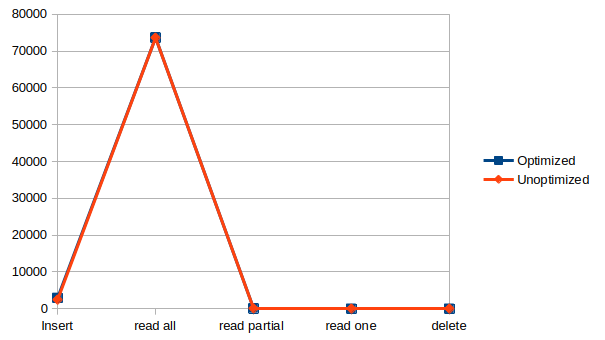
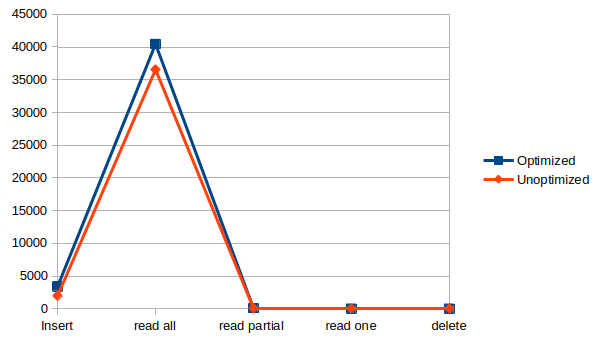
changed workloadSetup

diff --git a/routes/routes.js b/routes/routes.js
@@ -2,23 +2,26 @@ import express from 'express';
 //import getCouchbase from '../src/coachbase/model.js';
 //import cassandraModel from '../src/cassandra/model.js';
 //import mongodbModel from '../src/mongoDB/model.js';
-import oracleModel from '../src/oracle/model.js';
-//import postgisModel from '../src/postgis/model.js';
+//import oracleModel from '../src/oracle/model.js';
+import postgisModel from '../src/postgis/model.js';
 //import postgreModel from '../src/postgreSQL/model.js';
 
 
 const routes = express.Router();
 
 //const pg = new postgreModel();
-//const postgis = new postgisModel();
-const oracle = new oracleModel();
+const postgis = new postgisModel();
+//const oracle = new oracleModel();
 //const mongoDB = new mongodbModel();
 //const cassandra = new cassandraModel();
 //const couchDB = new getCouchbase();
 
 routes.post("/insert", async (req, res)=>{
     try {
-        const result = await oracle.insert(req.body.collection, req.body.path);
+
+        const result = await postgis.insertOptimised(req.body.collection, req.body.path);
+        //const result = await postgis.insert(req.body.collection, req.body.path);
+        console.log("insert route", result)
         //const result = await cassandra.insertOptimized(req.body.collectionTime, req.body.collectionId, req.body.path);
         res.status(200).json({ success: true, result });
     } catch (err) {
@@ -28,27 +31,29 @@ routes.post("/insert", async (req, res)=>{
 })
 
 routes.post("/read_all", async (req, res) => {
-    const result = await oracle.readAll(req.body.collection);
+    console.log("read_all route", req.body.collection)
+    const result = await postgis.readAll(req.body.collection);
+    console.log("read_all route", result)
     res.status(200).json(result);
 })
 
 routes.post("/read_partial", async (req, res) => {
     console.log("ROUTES REQ'S",req.body.collection, req.body.columnOne, req.body.columnTwo, req.body.valueOne, req.body.valueTwo)
-    const result = await oracle.readPartial(req.body.collection, req.body.columnOne, req.body.columnTwo, req.body.valueOne, req.body.valueTwo);
-    //const result = await postgis.readPartialOP(req.body.collection, req.body.valueOne, req.body.valueTwo, req.body.valueThree, req.body.valueFour)
+    //const result = await oracle.readPartial(req.body.collection, req.body.columnOne, req.body.columnTwo, req.body.valueOne, req.body.valueTwo);
+    const result = await postgis.readPartialOP(req.body.collection, req.body.valueOne, req.body.valueTwo, req.body.valueThree, req.body.valueFour)
     //const result = await cassandra.readPartialOptimized(req.body.collection, req.body.valueOne, req.body.valueTwo)
     res.status(200).json(result);
 })
 
 routes.post("/read_one", async (req, res) => {
-    const result = await oracle.readOne(req.body.collection);
+    const result = await postgis.readOne(req.body.collection);
     
     res.status(200).json(result);
 })
 
 routes.post("/delete", async (req, res) => {
     //const result = await cassandra.delete(req.body.collectionTime, req.body.collectionId);
-    const result = await oracle.delete(req.body.collection);
+    const result = await postgis.delete(req.body.collection);
     res.status(200).json(result);
 })
 routes.post("/postgisdrop", async (req, res) => {

diff --git a/src/postgis/model.js b/src/postgis/model.js
@@ -8,7 +8,7 @@ class postgisModel{
     * @param {table} table 
     */
     async readAll(table) {
-    const client = await connectPostgre();
+    const { client, postgis } = await postgisconnect();
     const sql = `SELECT * FROM ${table}`
     await client.query(sql);
     console.log("READ ALL")
@@ -67,7 +67,7 @@ class postgisModel{
     * @param {table} table 
     */
     async insert(table, path) {
-        const client = await connectPostgre();
+        const { client, postgis } = await postgisconnect();
         const copySQl = `COPY ${table} (Severity,State,Precipitation,Windy,Start_Lat,Start_Lng,Date,Time) 
         FROM '/data/${path}.csv'
         WITH (FORMAT csv, HEADER true, DELIMITER ',' )`;
@@ -89,9 +89,9 @@ class postgisModel{
         CSV HEADER`;
         const res = await client.query(copySQl)
 
-        const copyScrap = `INSERT INTO optimized (Severity, State, Precipitation, Windy, Geo, Start_time, End_time)
-        SELECT Severity::integer, State, Precipitation::float, Windy::boolean, ST_GeomFromText(Geo_text, 4326), Start_time::timestamp, End_time::timestamp
-        FROM optimized_scarp;`
+    const copyScrap = `INSERT INTO optimized (Severity, State, Precipitation, Windy, Geo, Start_time, End_time)
+        SELECT Severity::integer, State, Precipitation::float, Windy::integer, ST_GeomFromText(Geo_text, 4326), Start_time::timestamp, End_time::timestamp
+        FROM optimized_scarp`;
 
         const result = await client.query(copyScrap)
         console.log("insert", result.rowCount)

diff --git a/src/oracle/model.js b/src/oracle/model.js
@@ -8,6 +8,7 @@ class oracleModel{
     * @param {table} table 
     */
     async readAll(table) {
+        console.log("Model read_all");
         const dbconn = await dbConnectionOracle();
         const sql = `SELECT * FROM ${table}`;
         const result = await dbconn.execute(sql);
@@ -37,7 +38,7 @@ class oracleModel{
     */
     async readOne(table) {
         const dbconn = await dbConnectionOracle();
-        const sql = `SELECT * FROM ${table} WHERE id = 1`
+        const sql = `SELECT * FROM ${table} WHERE id = 5000`
         const result = await dbconn.execute(sql)
         console.log("ONE", result.rows.length)
         return true;
@@ -99,6 +100,7 @@ class oracleModel{
             })
             .on("error", reject);
         });
+
     }
 
 }

diff --git a/src/app.js b/src/app.js
@@ -1,5 +1,5 @@
 import express from 'express';
-//import { preprocessing } from './postgis/preprocess.js';
+import { preprocessing } from './postgis/preprocess.js';
 
 import routes from '../routes/routes.js';
 
@@ -11,4 +11,4 @@ app.use('/', routes);
 
 app.listen(3000, () => console.log(`Server running on 3000`));
 
-//preprocessing("dataC.csv")
+preprocessing("dataB.csv")

diff --git a/scripts/main.py b/scripts/main.py
@@ -30,6 +30,8 @@ FOR OPTIMIZED MONGODB & POSTGREE:
 Workload A, B, C:
 "-d", '{"collection":"optimized", "columnOne": "Windy", "columnTwo": "Severity", "valueOne":0, "valueTwo":4}',
 
+        
+
 """
 
 def main():
@@ -50,12 +52,18 @@ def main():
                                 "-X", 
                                 "POST",
                                 "-H", "Content-Type: application/json",
-                                "-d", '{"collection":"unoptimized", "path": "dataC"}',
+                                "-d", '{"collection":"optimized", "path": "dataB"}',
                                 "http://localhost:3000/insert"],
                                 capture_output=True,
                                 text=True)
         print("Insert done")
         print(insert.stderr)
+
+        energy, times = retreive_values(insert.stderr)
+        results.append({"Run": count,
+                        "Operation": "insert",
+                        "Energy": energy,
+                        "Time": times})
         subprocess.run([   "curl",
                                 "-s",
                                 "-o",
@@ -63,16 +71,10 @@ def main():
                                 "-X", 
                                 "POST",
                                 "-H", "Content-Type: application/json",
-                                "-d", '{"collection":"unoptimize"}',
+                                "-d", '{"collection":"optimized"}',
                                 "http://localhost:3000/postgisdrop"],
                                 capture_output=True,
                                 text=True)
-        energy, times = retreive_values(insert.stderr)
-        results.append({"Run": count,
-                        "Operation": "insert",
-                        "Energy": energy,
-                        "Time": times})
-        ""
         time.sleep(60)
         read_all = subprocess.run (["sudo", 
                                 "perf", 
@@ -86,7 +88,7 @@ def main():
                                 "-X", 
                                 "POST",
                                 "-H", "Content-Type: application/json",
-                                "-d", '{"collection":"unoptimized"}',
+                                "-d", '{"collection":"optimized"}',
                                 "http://localhost:3000/read_all"],
                                 capture_output=True,
                                 text=True)
@@ -112,8 +114,8 @@ def main():
                                 "/dev/null",
                                 "-X", 
                                 "POST",
-                                "-H", "Content-Type: application/json", 
-                                "-d", '{"collection":"unoptimized", "columnOne": "Severity", "columnTwo": "State", "valueOne":"2", "valueTwo":"SC"}',
+                                "-H", "Content-Type: application/json",
+                                "-d", '{"collection":"optimized", "valueOne":33.8, "valueTwo":-118.46, "valueThree":34.32, "valueFour":-117.94}',
                                 "http://localhost:3000/read_partial"],
                                 capture_output=True,
                                 text=True)
@@ -135,7 +137,7 @@ def main():
                                 "-X", 
                                 "POST",
                                 "-H", "Content-Type: application/json",
-                                "-d", '{"collection":"unoptimized"}',
+                                "-d", '{"collection":"optimized"}',
                                 "http://localhost:3000/read_one"],
                                 capture_output=True,
                                 text=True)
@@ -162,7 +164,7 @@ def main():
                                 "-X", 
                                 "POST",
                                 "-H", "Content-Type: application/json",
-                                "-d", '{"collection":"unoptimized"}',
+                                "-d", '{"collection":"optimized"}',
                                 "http://localhost:3000/delete"],
                                 capture_output=True,
                                 text=True)
@@ -248,7 +250,7 @@ def pivot_results(result):
 def write_csv_wide(result, summery):
     pivot, runs = pivot_results(result)
 
-    with open("Oracle_test.csv", "w", newline="") as f:
+    with open("OPTIMISED_V2_POSTGIS_WB.csv", "w", newline="") as f:
 
         fieldnames = (
             ["Operation"] +
